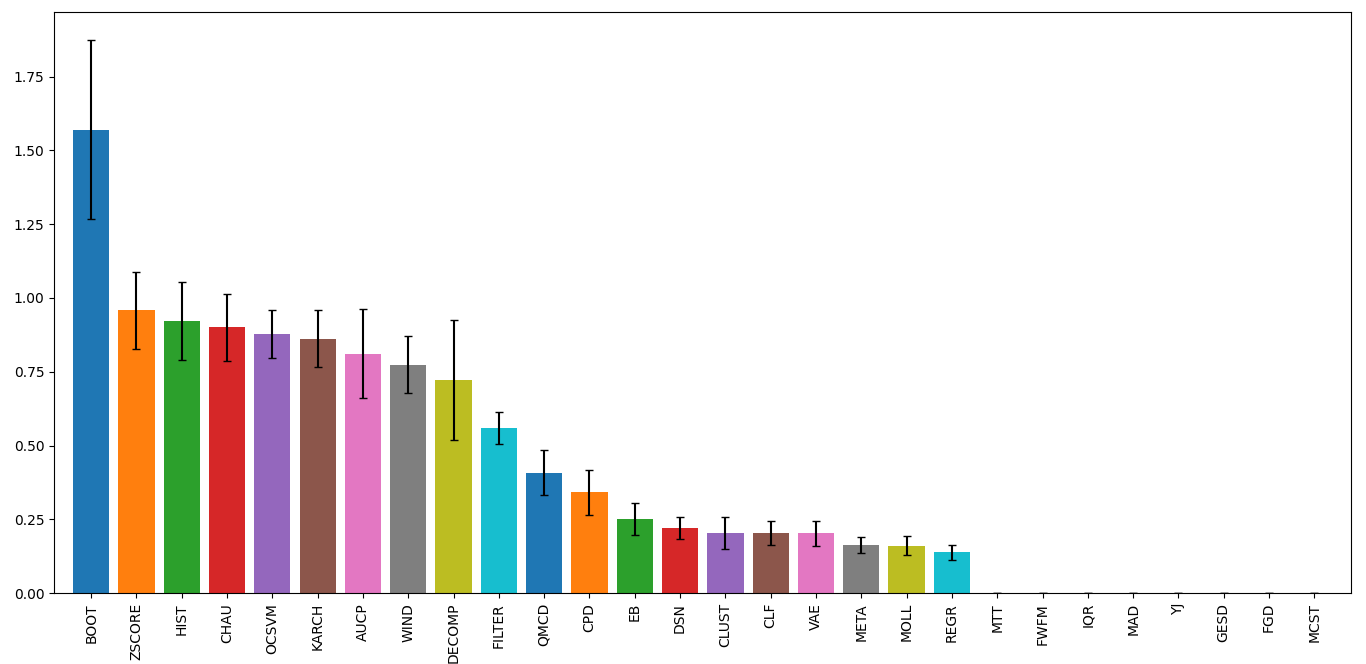
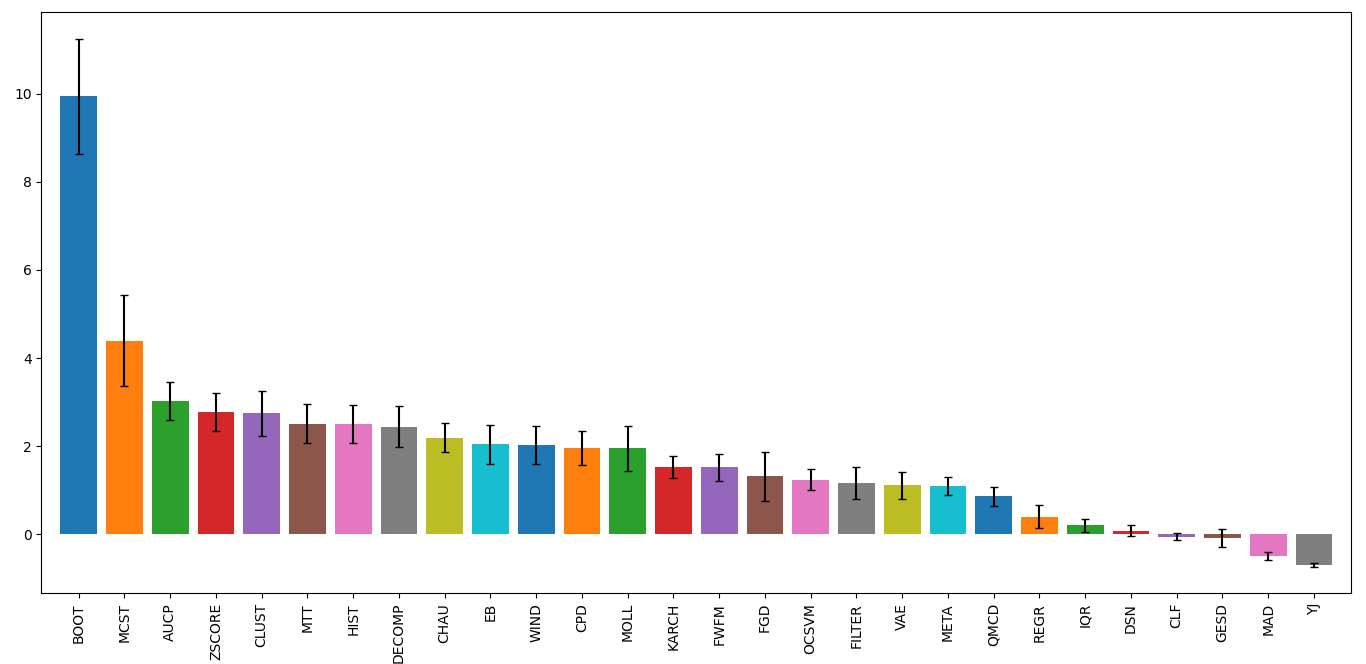
Updated Overpred Benchmarks

diff --git a/docs/benchmark.rst b/docs/benchmark.rst
@@ -304,25 +304,26 @@ the highest potential to over predict.
 
 To evaluate the over predictive nature of each thresholder, the ratio
 between the predicted and true contamination level will be used. The
-harmonic mean of the ratios is calculated for each thresholder using the
+mean of the ratios minus one is calculated for each thresholder using the
 same setup as the first benchmark test. For this evaluation, a value of
-1 indicates perfect contamination predictions, below 1 is under
-predication, and above 1 is over prediction. ``BOOT`` has the highest
-potential to over predict while all the thresholders that sit near 0
-mean that they tend to not identify any outliers for some outlier
-scores. It is also important to note that a thresholder's potential to
-over predict will vary significantly based on the selected dataset and
-outlier detection method, and therefore it is important to check the
-predicted contamination level after thresholding.
+0 indicates perfect contamination predictions, below 0 is under
+prediction, and above 0 is over prediction. ``BOOT`` has the highest
+potential to over predict while most thresholders in general tend to 
+over predict. It is also important to note that a thresholder's potential 
+to over predict will vary significantly based on the selected dataset and 
+outlier detection method, and therefore it is important to check the predicted 
+contamination level after thresholding.
 
 .. figure:: figs/Overpred.png
    :alt: Over prediction
 
 A second over predictive evaluation can also be done, but now with
 regards to over predicting beyond the best contamination level for each
-outlier detection method on each dataset. As seen below, a significant
-amount of thresholders tend to over predict beyond the best
-contamination level.
+outlier detection method on each dataset based on the MMC score. As seen 
+below, a significant amount of thresholders still tend to over predict even 
+beyond the best contamination level. However, now some clear well performing 
+thresholders can be matched to the previous benchmarking, notably ``META`` and
+``FILTER``.
 
 .. figure:: figs/Overpred_best.png
    :alt: Over prediction best
